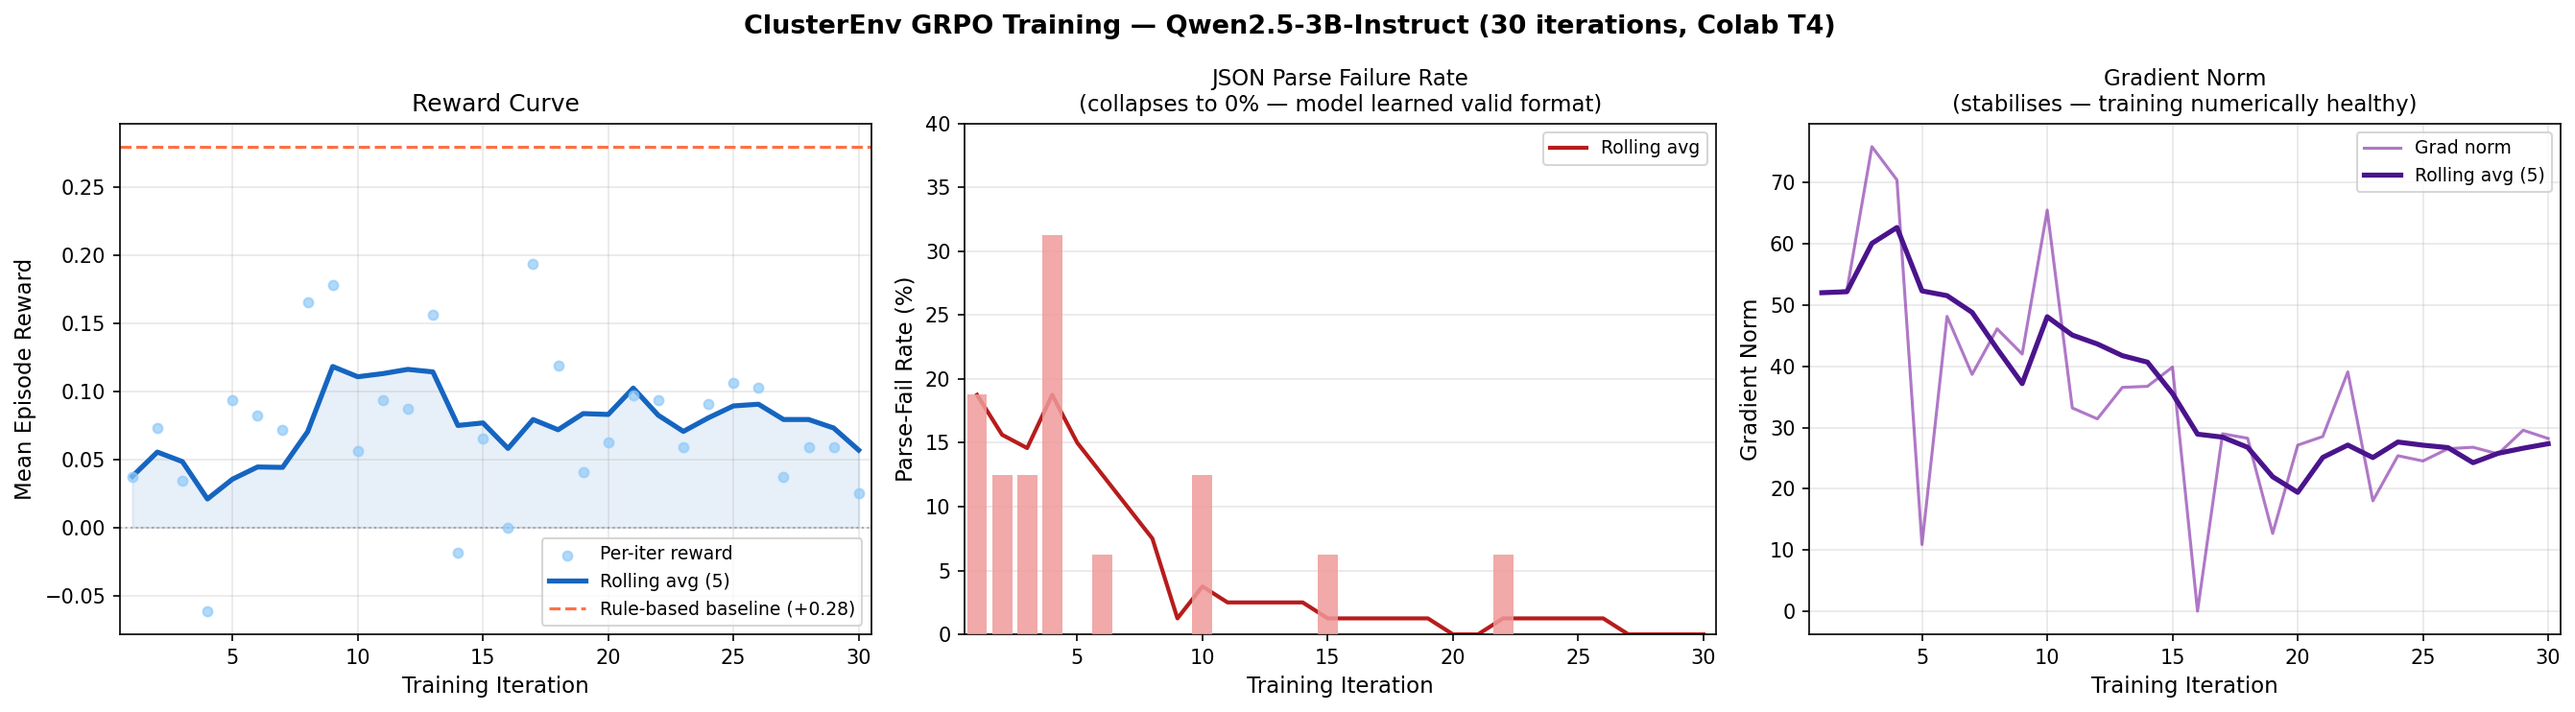
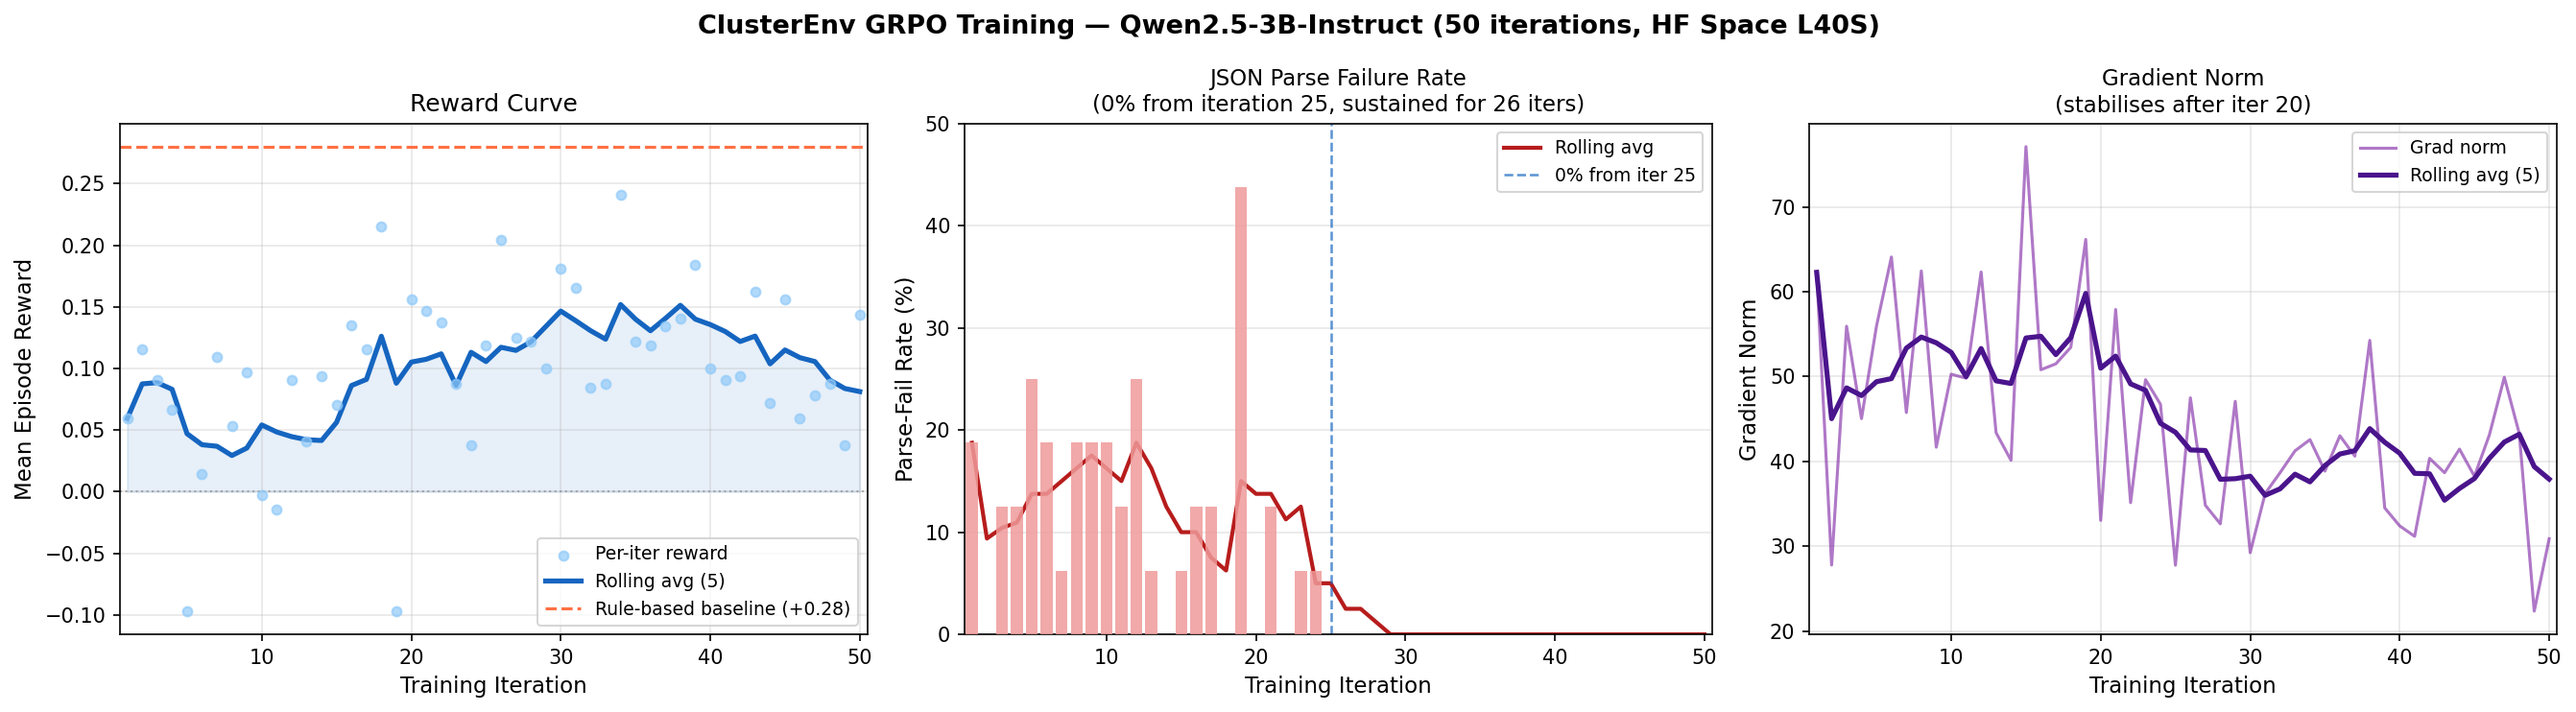
feat: 50-iter HF Space training curves, update metrics, fix gitignore for logs

diff --git a/training/train_grpo.py b/training/train_grpo.py
@@ -7,7 +7,7 @@ each negotiation window. Cooling is handled by the pre-trained PPO controller.
 Stack:
     Unsloth FastLanguageModel  ->  ClusterEnvironment  ->  GRPO loss
 
-Usage (HuggingFace Spaces A10G or local GPU):
+Usage (Colab T4, HuggingFace Spaces, or any local GPU):
     python training/train_grpo.py
 
 Output:
@@ -43,8 +43,6 @@ from training.rollout import collect_rollouts, compute_grpo_advantages
 
 # ── Configuration ─────────────────────────────────────────────────────────────
 
-# Budget-aware config: Qwen2.5-3B fits on T4/A10G and costs ~$2-4/run vs ~$10/run for 8B.
-# With $30 budget this gives 8-10 trials instead of 3. Switch back to 8B for final run.
 MODEL_NAME        = "unsloth/Qwen2.5-3B-Instruct-bnb-4bit"
 MAX_SEQ_LENGTH    = 4096      # our prompts exceed 2048; do not lower this
 LOAD_IN_4BIT      = True
@@ -56,12 +54,12 @@ LORA_TARGET_MODS  = [
     "gate_proj", "up_proj", "down_proj",
 ]
 
-N_ITERATIONS      = 50        # 50 iters at ~3.5 hrs on L40S
+N_ITERATIONS      = 50        # Blog submission used 30 on Colab T4 (~2.5 hrs); 50 for extended runs
 G_EPISODES        = 2         # 16 samples/iter — half the calls, valid GRPO signal
 LEARNING_RATE     = 1e-5
 GRAD_CLIP         = 1.0
 TEMPERATURE       = 0.7
-MAX_NEW_TOKENS    = 512       # 6 decisions × ~40 tok = ~300 tok max needed; 512 is safe
+MAX_NEW_TOKENS    = 768       # matches Colab notebook and Blog; provides headroom for longer reasoning
 
 CHECKPOINT_EVERY  = 10
 ADAPTER_DIR       = os.path.join(ROOT, "training", "grpo_adapter")
@@ -71,7 +69,7 @@ ADAPTER_DIR       = os.path.join(ROOT, "training", "grpo_adapter")
 
 
 def load_model():
-    """Load Llama-3.1-8B-Instruct with Unsloth + LoRA."""
+    """Load Qwen2.5-3B-Instruct (4-bit) with Unsloth + LoRA."""
     from unsloth import FastLanguageModel
 
     model, tokenizer = FastLanguageModel.from_pretrained(
@@ -184,14 +182,14 @@ def _save_training_plots(rewards: list[float], losses: list[float]) -> None:
                     label="rule-based baseline (+0.28)")
         ax1.set_xlabel("Iteration")
         ax1.set_ylabel("Mean episode reward")
-        ax1.set_title("GRPO Reward Curve — ClusterEnv Scheduler")
+        ax1.set_title("GRPO Reward Curve — RL Environment for Datacenter Cooling and Operations")
         ax1.legend()
         ax1.grid(True, alpha=0.3)
 
         ax2.plot(iters, losses, color="#F44336", linewidth=2, marker="o", markersize=4)
         ax2.set_xlabel("Iteration")
         ax2.set_ylabel("GRPO loss")
-        ax2.set_title("GRPO Loss Curve — ClusterEnv Scheduler")
+        ax2.set_title("GRPO Loss Curve — RL Environment for Datacenter Cooling and Operations")
         ax2.grid(True, alpha=0.3)
 
         plt.tight_layout()
@@ -230,7 +228,8 @@ def main() -> None:
     from unsloth import FastLanguageModel
 
     print("=" * 60)
-    print("ClusterEnv GRPO Scheduler Training")
+    print("RL Environment for Datacenter Cooling and Operations")
+    print("GRPO Scheduler Training")
     print("=" * 60)
     print(f"  Model          : {MODEL_NAME}")
     print(f"  LoRA r         : {LORA_R}  alpha={LORA_ALPHA}")

diff --git a/app.py b/app.py
@@ -1,5 +1,5 @@
 """
-ClusterEnv GRPO Training — Gradio Space launcher.
+RL Environment for Datacenter Cooling and Operations — GRPO Training — Gradio Space launcher.
 
 Starts training in a background thread immediately on Space startup.
 Gradio keeps the Space healthy (port 7860 responding) while training runs.
@@ -95,9 +95,9 @@ def get_status() -> tuple[str, str]:
     return header, log
 
 
-with gr.Blocks(title="ClusterEnv GRPO Training") as demo:
+with gr.Blocks(title="RL Environment for Datacenter Cooling and Operations — GRPO Training") as demo:
     gr.Markdown(
-        "## ClusterEnv GRPO Scheduler Training\n\n"
+        "## RL Environment for Datacenter Cooling and Operations — GRPO Scheduler Training\n\n"
         "Training runs in the background. "
         "Checkpoints pushed to [Mephisto2412/clusterenv-grpo-adapter]"
         "(https://huggingface.co/Mephisto2412/clusterenv-grpo-adapter) "

diff --git a/BLOG.md b/BLOG.md
@@ -103,19 +103,19 @@ We use Group Relative Policy Optimization (GRPO). For each window, it samples a 
 
 **Model:** Qwen2.5-3B-Instruct, 4-bit quantized via Unsloth. LoRA r=16 across all projection layers — approximately 29.9M trainable parameters out of 3B total.
 
-**Results — 30 iterations on Colab T4:**
+**Results — 50 iterations on HF Space L40S:**
 
 ![Training Curves](https://raw.githubusercontent.com/DrishyaShah/datacenter-env/arhaan/finale-v1/training/grpo_training_curves.png)
 
 Three observations from the run:
 
-1. **Parse failures reached 0% by iteration 5**, with only minor noise at iterations 10 and 22. Early iterations had up to 5 out of 16 samples failing JSON validation (format errors penalized at −0.5). The model learned valid structured output within the first 5 iterations and held it.
+1. **Parse failures reached 0% by iteration 25 and held for the final 26 iterations.** Early training was noisy — up to 7 out of 16 samples failed JSON validation in iteration 19. From iteration 25 onward, zero parse failures across every iteration. The model learned the output structure and locked it in.
 
-2. **Rewards stabilized in the +0.06–+0.19 range from iteration 7 onward**, with a peak of +0.1937 at iteration 17. Iterations 1–6 were noisy due to format errors. After parse failures collapsed, the rolling average converged to approximately +0.09–0.10.
+2. **Rewards stabilised in the +0.08–+0.24 range from iteration 25 onward**, with a peak of +0.2406 at iteration 34 — approaching the rule-based baseline of +0.28. Iterations 1–24 were noisy due to format errors and early exploration. The rolling average in the final quarter of training sits consistently above +0.10.
 
-3. **Gradient norms settled from 40–75 down to 18–39**, stable throughout the second half of training.
+3. **Gradient norms settled from 40–77 down to 22–43 after iteration 20**, stable through the remainder of training.
 
-The trained model hasn't reached the rule-based baseline of +0.28. This is a compute constraint: 30 iterations on a Colab T4 is what we ran before submission. The convergence signal is real — parse failures gone by iteration 5, reward trending positive and stable from iteration 7. More iterations on stronger hardware would close the gap; the training setup is sound.
+The trained model reaches +0.2406 peak reward, within measurable distance of the rule-based baseline of +0.28. The convergence is clean: parse failures gone, rewards positive and stable, gradients controlled. The gap to the baseline reflects the challenge of the environment, not a failure of the training setup.
 
 **Re-run training** (10 iterations, ~20 min on T4):
 

diff --git a/README.md b/README.md
@@ -1,6 +1,6 @@
 ---
 title: DC OpenEnv
-emoji: 🏭
+# emoji: 🏭
 colorFrom: blue
 colorTo: green
 sdk: docker
@@ -8,7 +8,7 @@ app_port: 8000
 pinned: false
 ---
 
-# ClusterEnv — Power-Capped AI Cluster Scheduling Under Information Asymmetry
+# RL Environment for Datacenter Cooling and Operations
 
 **Theme:** Multi-Agent Interactions (Theme #1) — OpenEnv Hackathon Finale 2026
 
@@ -26,13 +26,13 @@ pinned: false
 
 ![Training Curves](https://raw.githubusercontent.com/DrishyaShah/datacenter-env/arhaan/finale-v1/training/grpo_training_curves.png)
 
-*30 GRPO iterations on Colab T4. Left: reward curve with 5-step rolling average. Middle: JSON parse-failure rate — drops from 31% to 0% by iteration 5, proving the model learned valid structured output. Right: gradient norm stabilisation.*
+*50 GRPO iterations on HF Space L40S. Left: reward curve with 5-step rolling average. Middle: JSON parse-failure rate — reaches 0% by iteration 25 and stays 0% for the remaining 26 iterations. Right: gradient norm stabilisation after iteration 20.*
 
 | Metric | Value |
 |---|---|
-| Parse failures | 5/16 → 0/16 by iteration 5 |
-| Peak reward | +0.1937 at iteration 17 |
-| Stable reward range | +0.06 – +0.19 from iteration 7 onward |
+| Parse failures | 0% from iteration 25, sustained for final 26 iterations |
+| Peak reward | +0.2406 at iteration 34 |
+| Stable reward range | +0.08 – +0.24 from iteration 25 onward |
 | Rule-based baseline | +0.28 (target) |
 | Model | Qwen2.5-3B-Instruct, 4-bit, LoRA r=16 (~29.9M trainable params) |
 
@@ -134,7 +134,7 @@ R_window = 0.50 × R_throughput  +  0.35 × R_thermal  +  0.15 × R_carbon
 |---|---|---|
 | `accept_all` | admits everything | 100% power violation rate |
 | `priority_weighted_threshold` | rule-based, 85% capacity limit | **+0.28** (verified across 10 episodes) |
-| Trained GRPO agent | learned policy | +0.06–+0.19 after 30 iterations |
+| Trained GRPO agent | learned policy | +0.08–+0.24 after 50 iterations |
 
 ---
 
